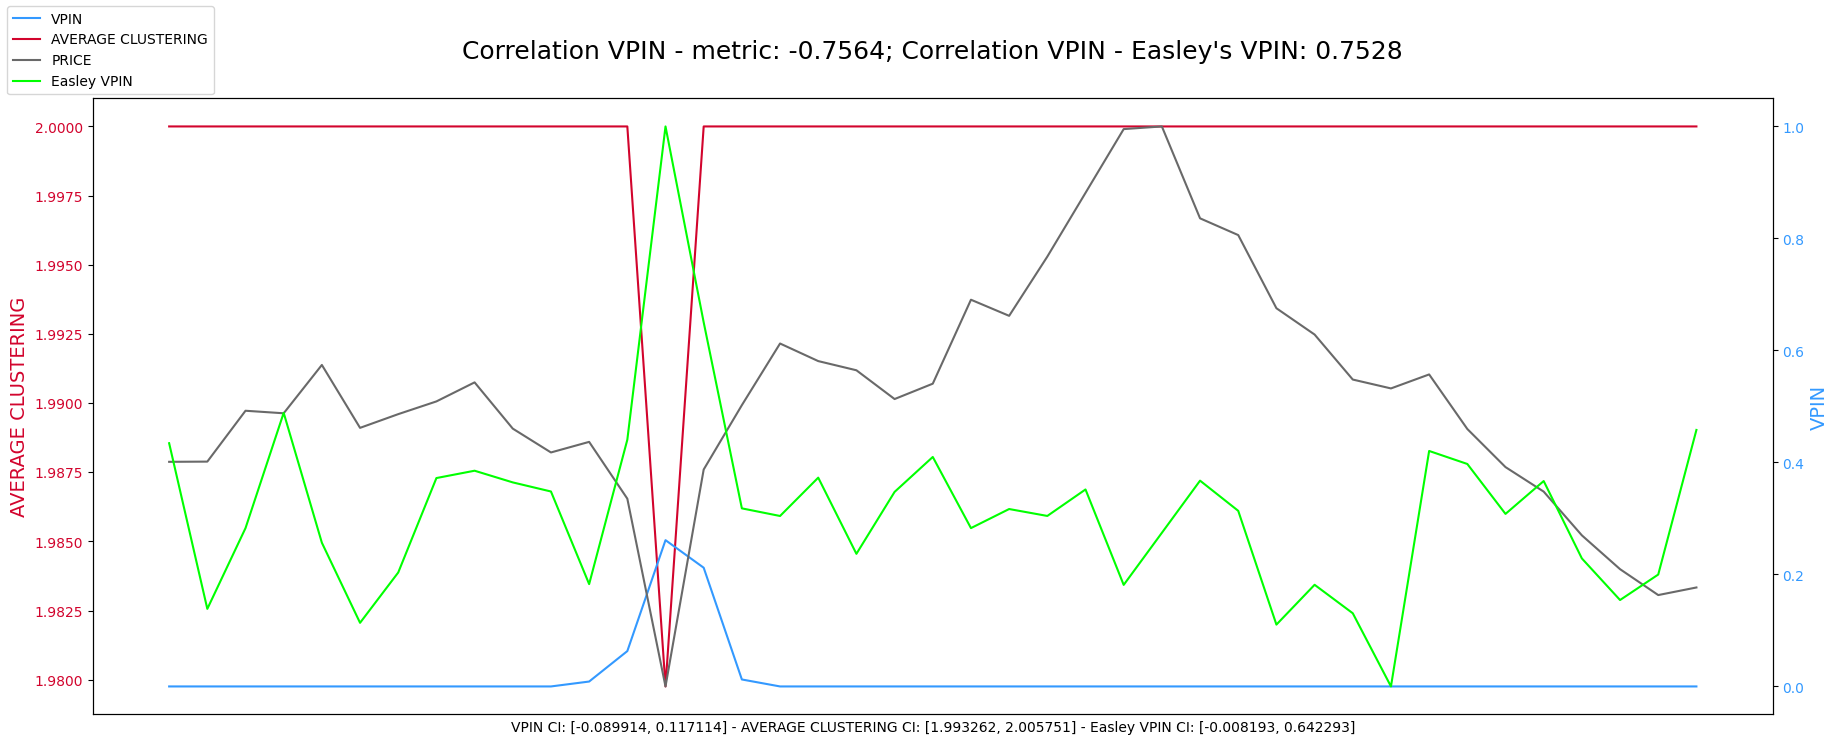
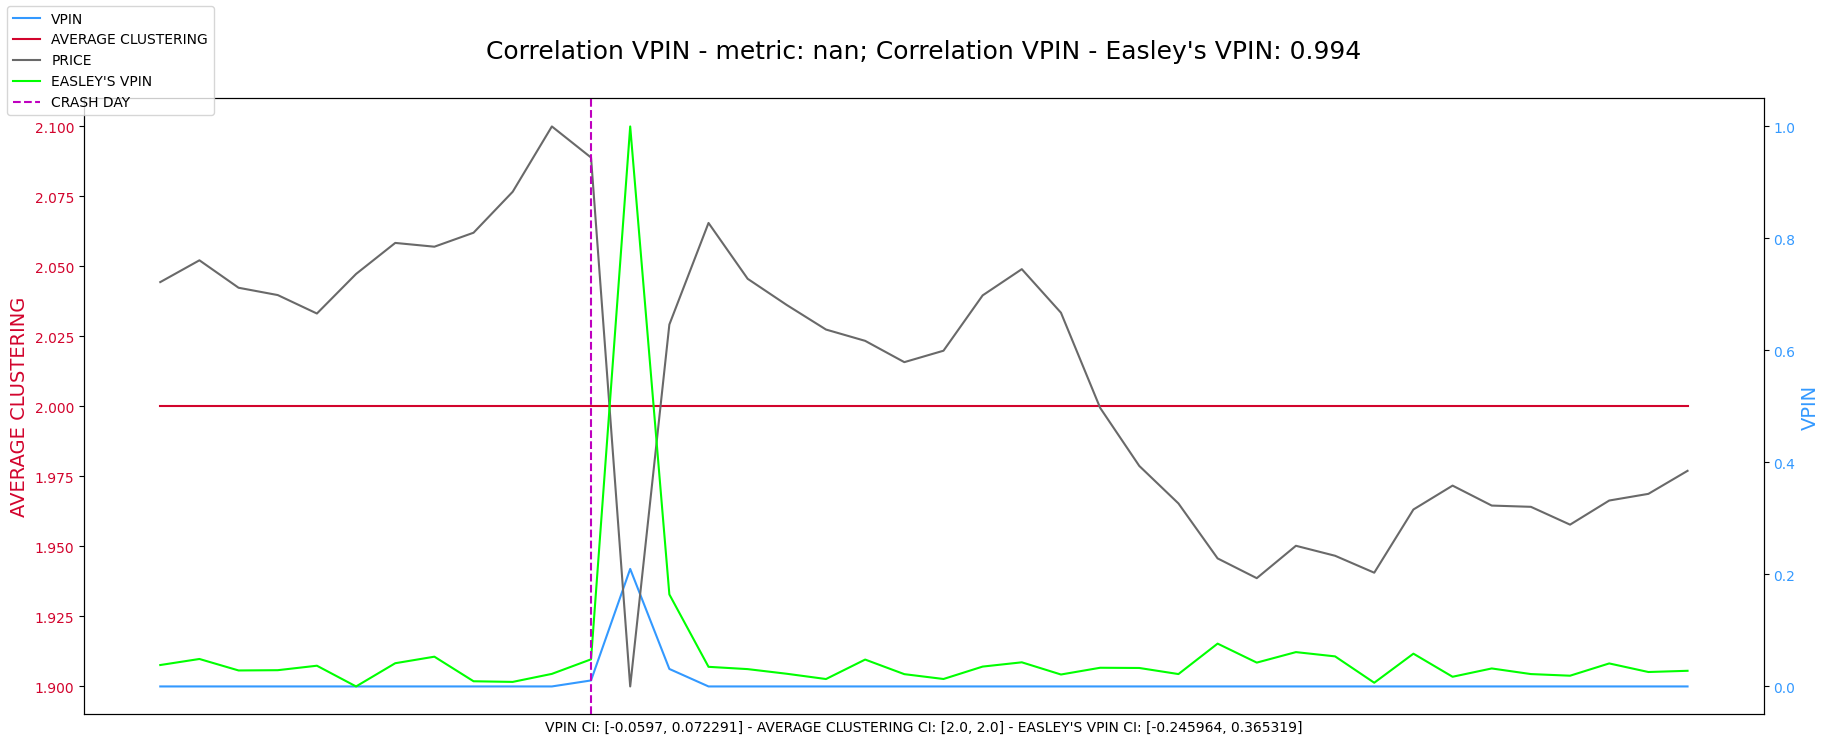
add 1

diff --git a/plots/monte-carlo/graph_metrics.py b/plots/monte-carlo/graph_metrics.py
@@ -17,7 +17,7 @@ def rolling_correlation(Y1, Y2, window_size):
     rolling_corr = rolling_corr[rolling_corr != 0]
     return rolling_corr
 
-def plot_metrics(X, Y1, Y2, Y3, Y4, metric1, metric2, metric3, metric4, window_size):
+def plot_metrics(X, Y1, Y2, Y3, Y4, metric1, metric2, metric3, metric4, window_size, isBig):
     # Y1 = VPIN
     # Y2 = Metric values
     # Y3 = PRICE
@@ -94,7 +94,7 @@ def plot_metrics(X, Y1, Y2, Y3, Y4, metric1, metric2, metric3, metric4, window_s
     percentage = sys.argv[3]
 
     first_crash_index = next((i for i, value in enumerate(Y1) if value > 0), None)
-    crash_day_x = X[first_crash_index] - 1
+    crash_day_x = X[first_crash_index] if isBig else X[first_crash_index] - 1
     crash_day_line = plt.axvline(x=crash_day_x, color='m', linestyle='--')
 
     fig.legend((l1, l2, l3, l4, crash_day_line), (metric1, metric2, metric3, metric4, 'CRASH DAY'), fontsize="medium", loc='upper left')
@@ -437,28 +437,28 @@ if __name__ == '__main__':
 
         # BIG
         plot_metrics(x_axis_big, x_axis_VPIN_big, y_axis_assortativity, y_axis_PRICE_big, e_vpin_norm_big,
-                     "VPIN", "ASSORTATIVITY", "PRICE", "EASLEY'S VPIN", WINDOW_SIZE_BIG)
+                     "VPIN", "ASSORTATIVITY", "PRICE", "EASLEY'S VPIN", WINDOW_SIZE_BIG, True)
         plot_metrics(x_axis_big, x_axis_VPIN_big, y_axis_average_clustering, y_axis_PRICE_big, e_vpin_norm_big,
-                     "VPIN", "AVERAGE CLUSTERING", "PRICE", "EASLEY'S VPIN", WINDOW_SIZE_BIG)
+                     "VPIN", "AVERAGE CLUSTERING", "PRICE", "EASLEY'S VPIN", WINDOW_SIZE_BIG, True)
         plot_metrics(x_axis_big, x_axis_VPIN_big, y_axis_diameter, y_axis_PRICE_big, e_vpin_norm_big,
-                     "VPIN", "DIAMETER", "PRICE", "EASLEY'S VPIN", WINDOW_SIZE_BIG)
+                     "VPIN", "DIAMETER", "PRICE", "EASLEY'S VPIN", WINDOW_SIZE_BIG, True)
         plot_metrics(x_axis_big, x_axis_VPIN_big, y_axis_independence, y_axis_PRICE_big, e_vpin_norm_big,
-                     "VPIN", "MAXIMAL INDEPENDENT SET SIZE", "PRICE", "EASLEY'S VPIN", WINDOW_SIZE_BIG)
+                     "VPIN", "MAXIMAL INDEPENDENT SET SIZE", "PRICE", "EASLEY'S VPIN", WINDOW_SIZE_BIG, True)
         plot_metrics(x_axis_big, x_axis_VPIN_big, y_axis_stars, y_axis_PRICE_big, e_vpin_norm_big,
-                     "VPIN", "NUMBER OF STARS", "PRICE", "EASLEY'S VPIN", WINDOW_SIZE_BIG)
+                     "VPIN", "NUMBER OF STARS", "PRICE", "EASLEY'S VPIN", WINDOW_SIZE_BIG, True)
 
         # SMALL
         plot_metrics(x_axis_small, x_axis_VPIN_small, y_axis_betweeness, y_axis_PRICE_small, e_vpin_norm_small,
-                     "VPIN", "BETWEENNESS CENTRALITY", "PRICE", "EASLEY'S VPIN", WINDOW_SIZE_SMALL)
+                     "VPIN", "BETWEENNESS CENTRALITY", "PRICE", "EASLEY'S VPIN", WINDOW_SIZE_SMALL, False)
         plot_metrics(x_axis_small, x_axis_VPIN_small, y_axis_bipartivity, y_axis_PRICE_small, e_vpin_norm_small,
-                     "VPIN", "BIPARTIVITY", "PRICE", "EASLEY'S VPIN", WINDOW_SIZE_SMALL)
+                     "VPIN", "BIPARTIVITY", "PRICE", "EASLEY'S VPIN", WINDOW_SIZE_SMALL, False)
         plot_metrics(x_axis_small, x_axis_VPIN_small, y_axis_closeness, y_axis_PRICE_small, e_vpin_norm_small,
-                     "VPIN", "CLOSENESS CENTRALITY", "PRICE", "EASLEY'S VPIN", WINDOW_SIZE_SMALL)
+                     "VPIN", "CLOSENESS CENTRALITY", "PRICE", "EASLEY'S VPIN", WINDOW_SIZE_SMALL, False)
         plot_metrics(x_axis_small, x_axis_VPIN_small, y_axis_connected, y_axis_PRICE_small, e_vpin_norm_small,
-                     "VPIN", "CONNECTED COMPONENTS", "PRICE", "EASLEY'S VPIN", WINDOW_SIZE_SMALL)
+                     "VPIN", "CONNECTED COMPONENTS", "PRICE", "EASLEY'S VPIN", WINDOW_SIZE_SMALL, False)
 
 
         plot_metrics(x_axis_big, x_axis_VPIN_big, e_vpin_norm_big, y_axis_PRICE_big, e_vpin_norm_big,
-                     "VPIN", "EASLEY VPIN (Low Frequency)", "PRICE", "EASLEY'S VPIN", WINDOW_SIZE_BIG)
+                     "VPIN", "EASLEY VPIN (Low Frequency)", "PRICE", "EASLEY'S VPIN", WINDOW_SIZE_BIG, True)
         plot_metrics(x_axis_small, x_axis_VPIN_small, e_vpin_norm_small, y_axis_PRICE_small, e_vpin_norm_small,
-                     "VPIN", "EASLEY VPIN (High Frequency)", "PRICE", "EASLEY'S VPIN", WINDOW_SIZE_SMALL)
+                     "VPIN", "EASLEY VPIN (High Frequency)", "PRICE", "EASLEY'S VPIN", WINDOW_SIZE_SMALL, False)
